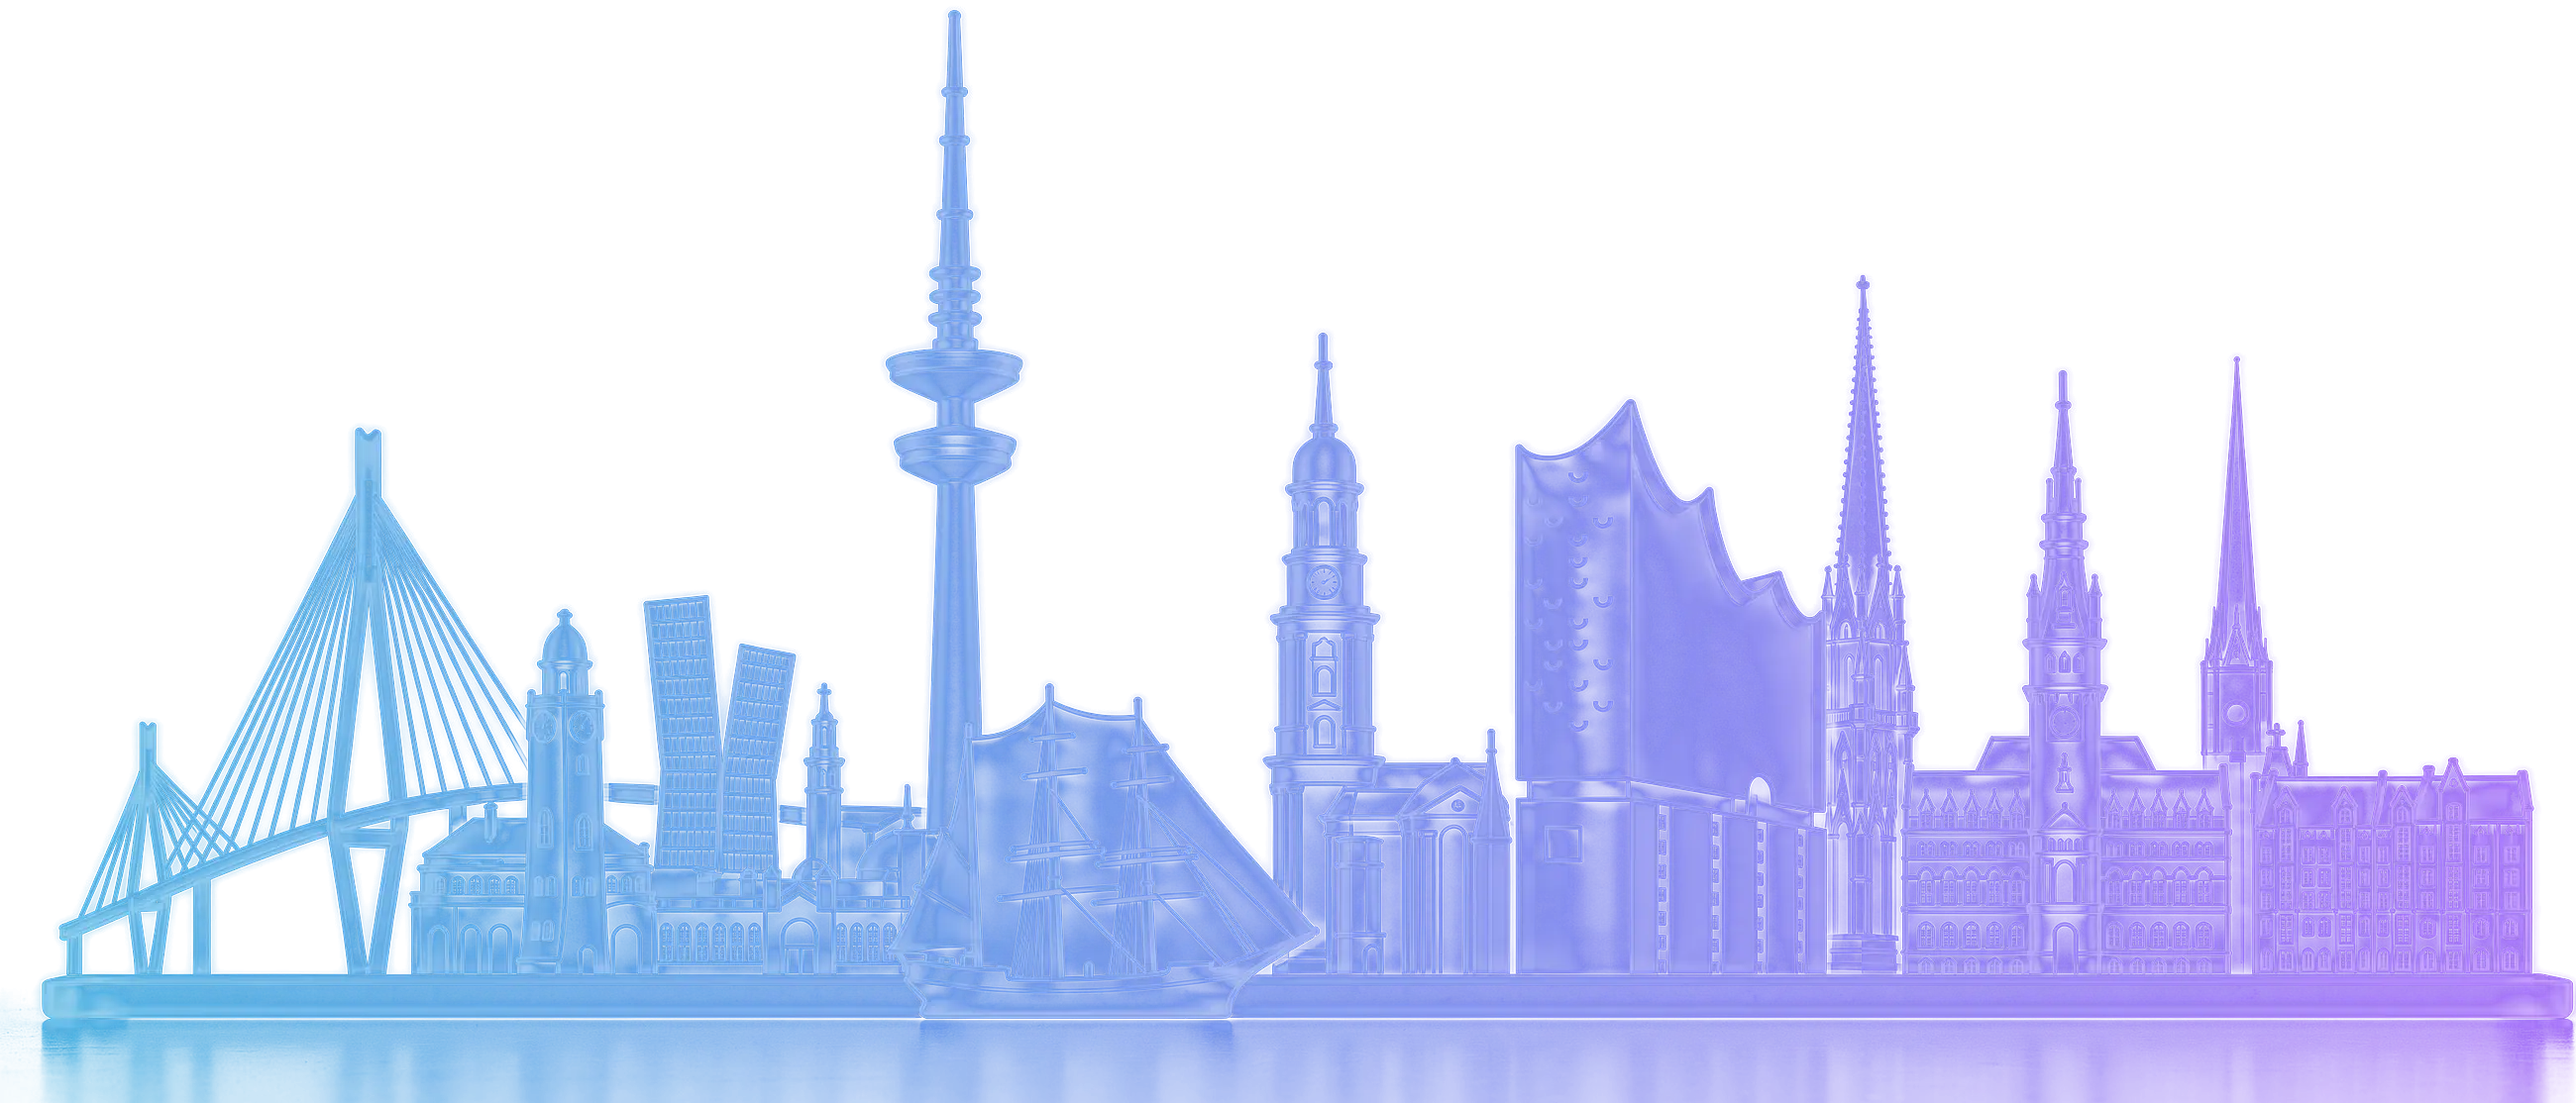
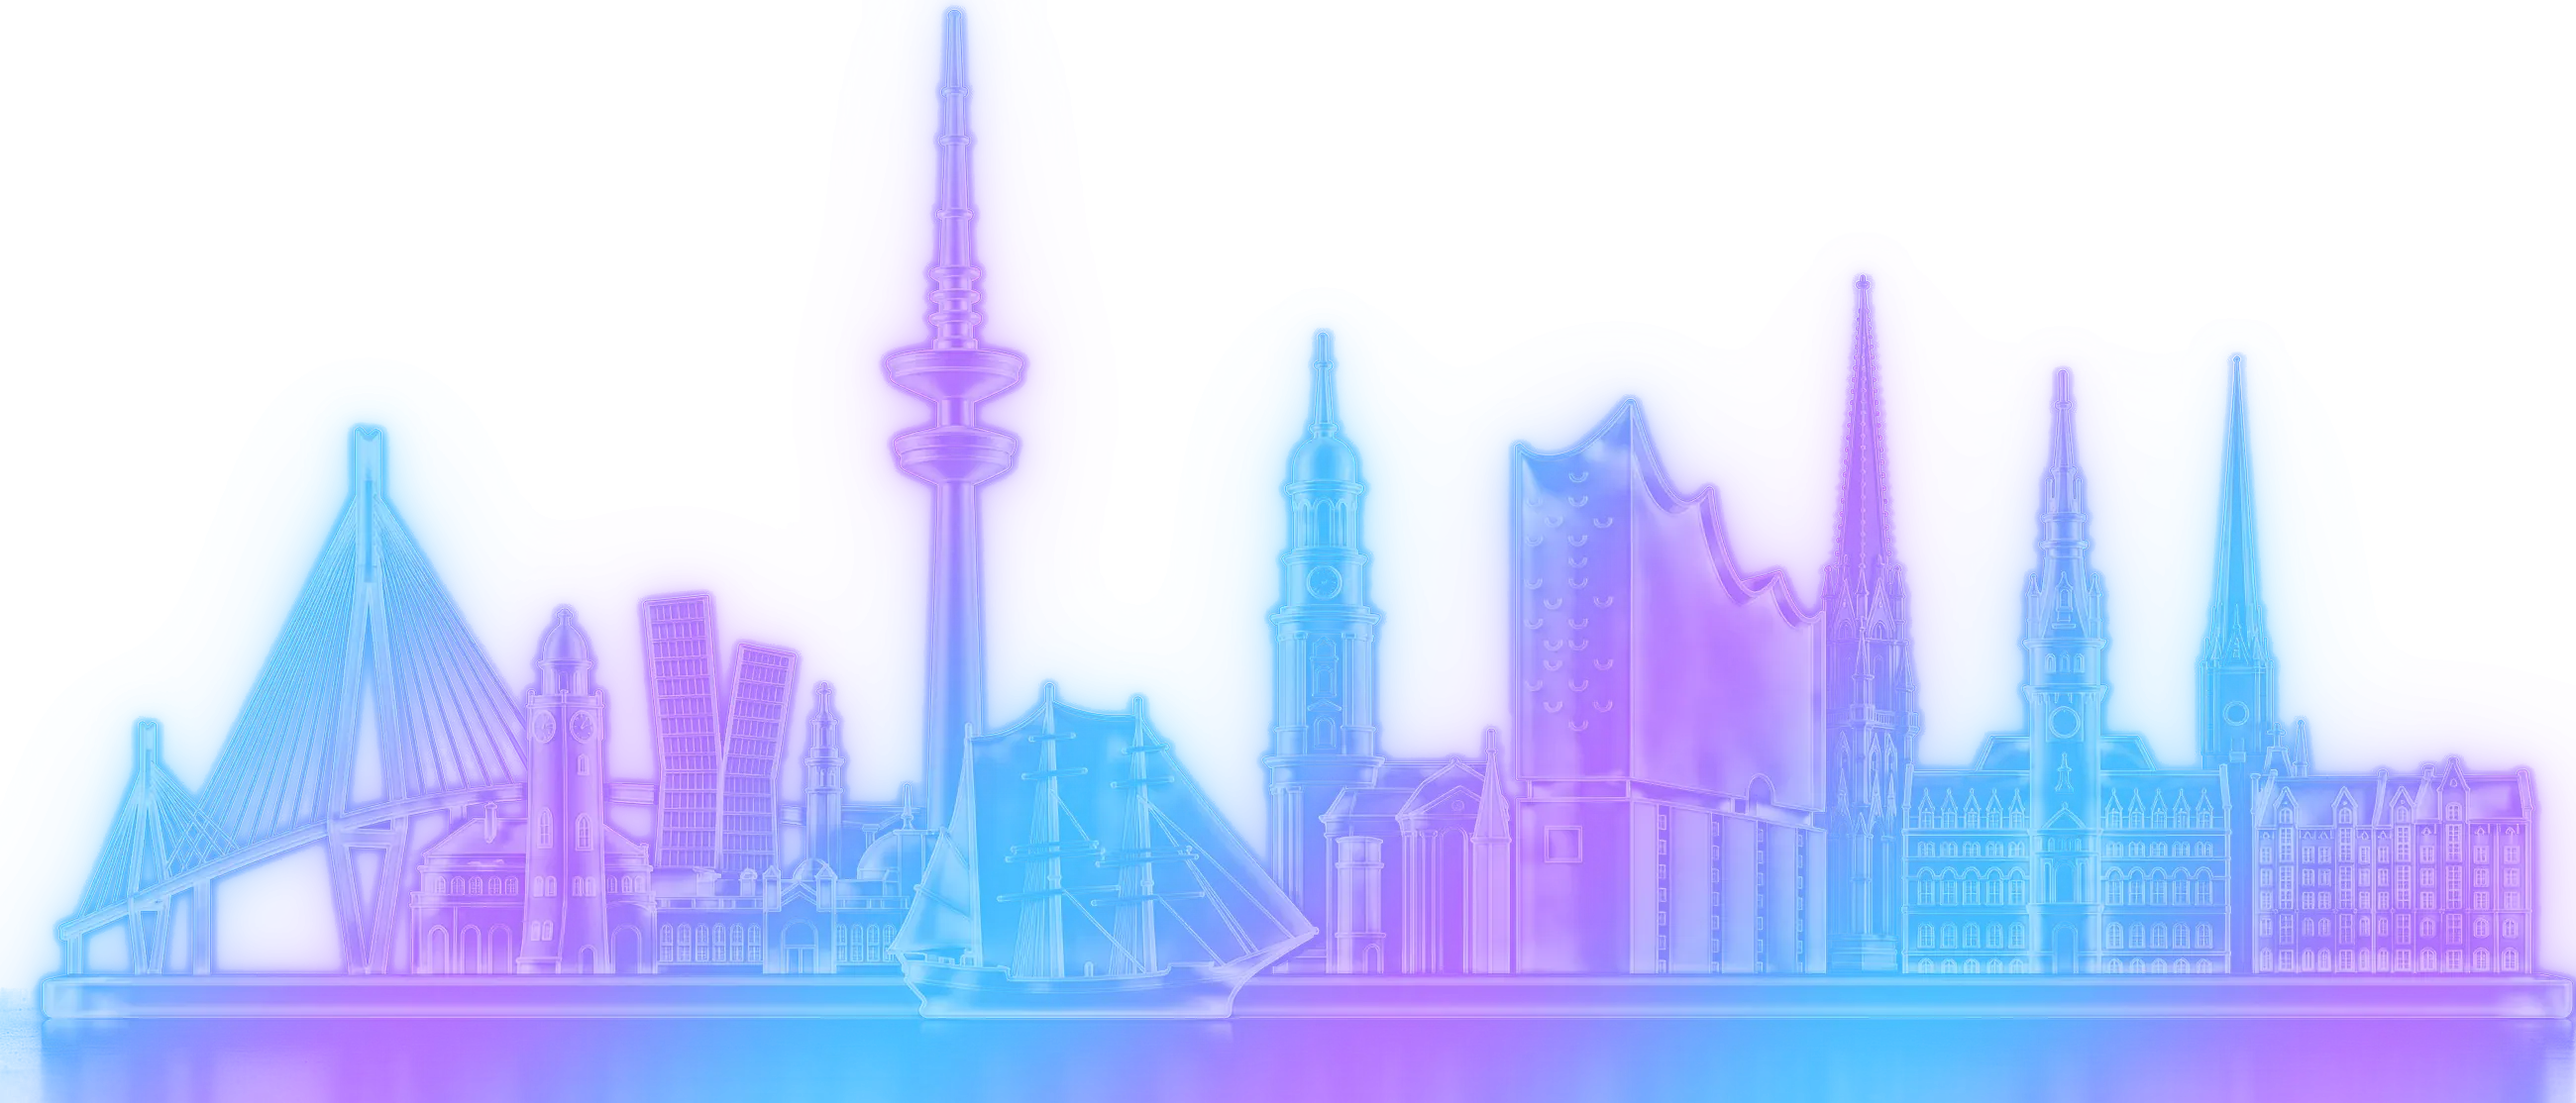
feat(lavender): city light glows in colour on the glass
The lit picture is strongly coloured (blue and violet in slanted bands,
so one spot holds both) with a baked-in bloom over the edges; the spot
is a little larger and solid further out.

Claude-Session: https://claude.ai/code/session_01HutgGfgwiiTnT4X53NFX4e

diff --git a/src/components/lavender/HamburgGlass.tsx b/src/components/lavender/HamburgGlass.tsx
@@ -52,7 +52,7 @@ export function HamburgGlass({ className }: { className?: string }) {
     if (!el) return;
     const still = window.matchMedia('(prefers-reduced-motion: reduce)').matches;
     const touch = window.matchMedia('(hover: none)').matches;
-    const cur: Light = { x: 0.5, y: 0.7, rx: 0.1, a: 0 };
+    const cur: Light = { x: 0.5, y: 0.7, rx: 0.12, a: 0 };
     const target: Light = { ...cur };
     let raf = 0;
     let timer = 0;
@@ -120,7 +120,7 @@ export function HamburgGlass({ className }: { className?: string }) {
     const walk = () => {
       walking = (walking + 1) % LANDMARKS.length;
       const lm = LANDMARKS[walking];
-      Object.assign(target, { x: lm.x, y: lm.y, rx: Math.max(lm.half * 1.55, 0.08), a: 1 });
+      Object.assign(target, { x: lm.x, y: lm.y, rx: Math.max(lm.half * 1.55, 0.1), a: 1 });
       go();
       timer = window.setTimeout(walk, 2600);
     };
@@ -159,7 +159,7 @@ export function HamburgGlass({ className }: { className?: string }) {
       Object.assign(target, {
         x: (e.clientX - box.left) / box.width,
         y: (e.clientY - box.top) / box.height,
-        rx: 0.1,
+        rx: 0.12,
         a: 1,
       });
       go();

diff --git a/src/styles/globals.css b/src/styles/globals.css
@@ -888,8 +888,8 @@ html {
     width: 200px;
     height: 200px;
     margin: -100px 0 0 -100px;
-    -webkit-mask-image: radial-gradient(closest-side, #000 34%, transparent 100%);
-    mask-image: radial-gradient(closest-side, #000 34%, transparent 100%);
+    -webkit-mask-image: radial-gradient(closest-side, #000 52%, transparent 100%);
+    mask-image: radial-gradient(closest-side, #000 52%, transparent 100%);
     opacity: 0;
     will-change: transform, opacity;
   }

diff --git a/docs/design-migration.md b/docs/design-migration.md
@@ -227,7 +227,9 @@ Stand:
       Elbphilharmonie, dahinter St. Nikolai, Rathaus, dahinter St. Petri, Speicherstadt. Die
       Gebäude überlappen sich wieder in der Tiefe. Im Hero tritt die Stadt nur direkt hinter dem
       Text zurück (`textHaze.ts`: weiche Löcher um jede Textzeile und den Knopf statt eines großen
-      Ovals). Das Stadtlicht ist rund. Alle Seiten enden im selben Bild (`ClosingText`: Schlusszeile
+      Ovals). Das Stadtlicht ist rund; das beleuchtete Bild ist kräftig eingefärbt (Blau und Lila in
+      schrägen Bändern, sodass ein Lichtfleck beide enthält) und hat einen eingerechneten Schein
+      über die Kanten (kein `mix-blend-mode`, nur das Bild selbst). Alle Seiten enden im selben Bild (`ClosingText`: Schlusszeile
       mittig, Stadt am unteren Rand, Leiste mit Textlinks darunter); beleuchtet = dieselbe Fassung in
       Blau/Lila eingefärbt). Durchsicht mit drei Skill-Sammlungen (taste-skill, impeccable,
       Emil Kowalski): Fokusring auf dunklem Grund, einheitliche Außenkanten, Abstände in den
